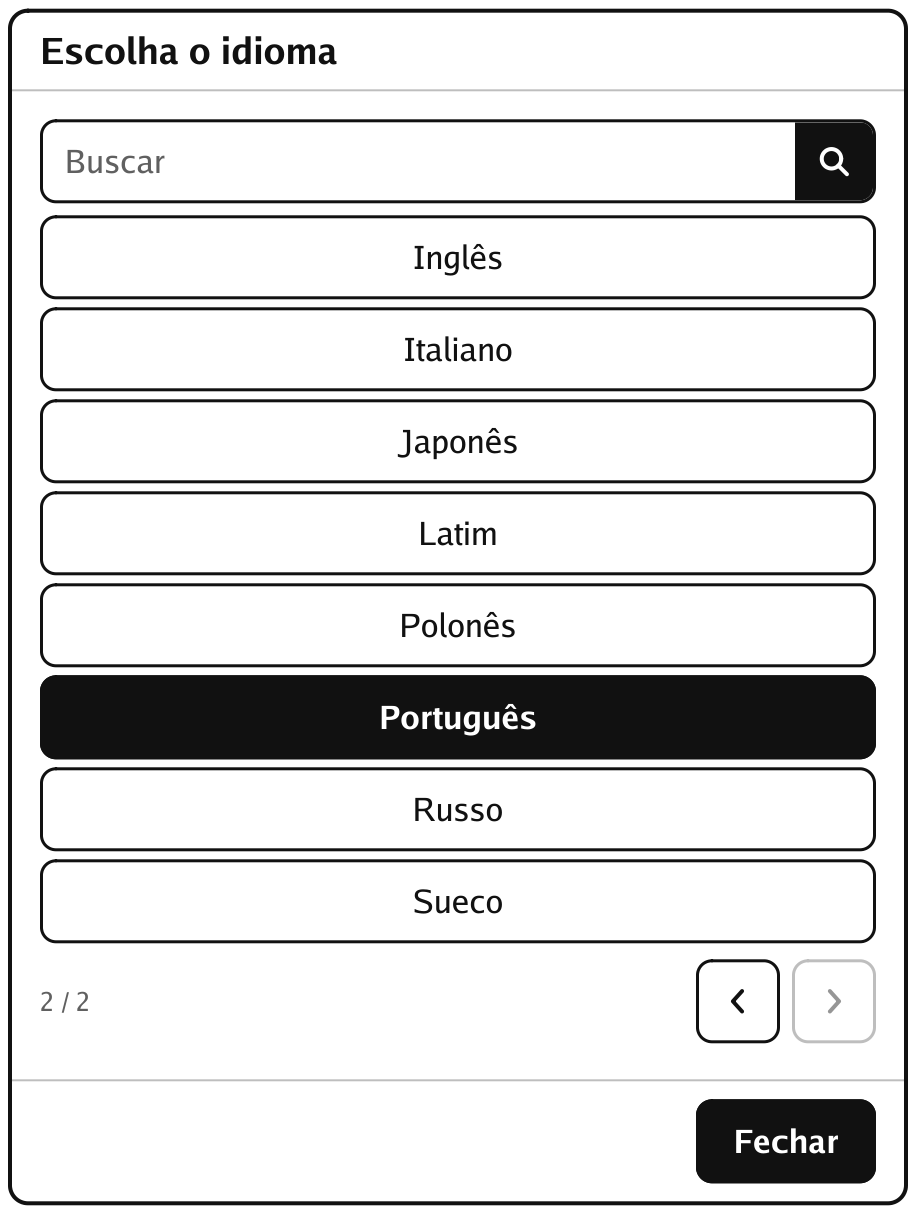
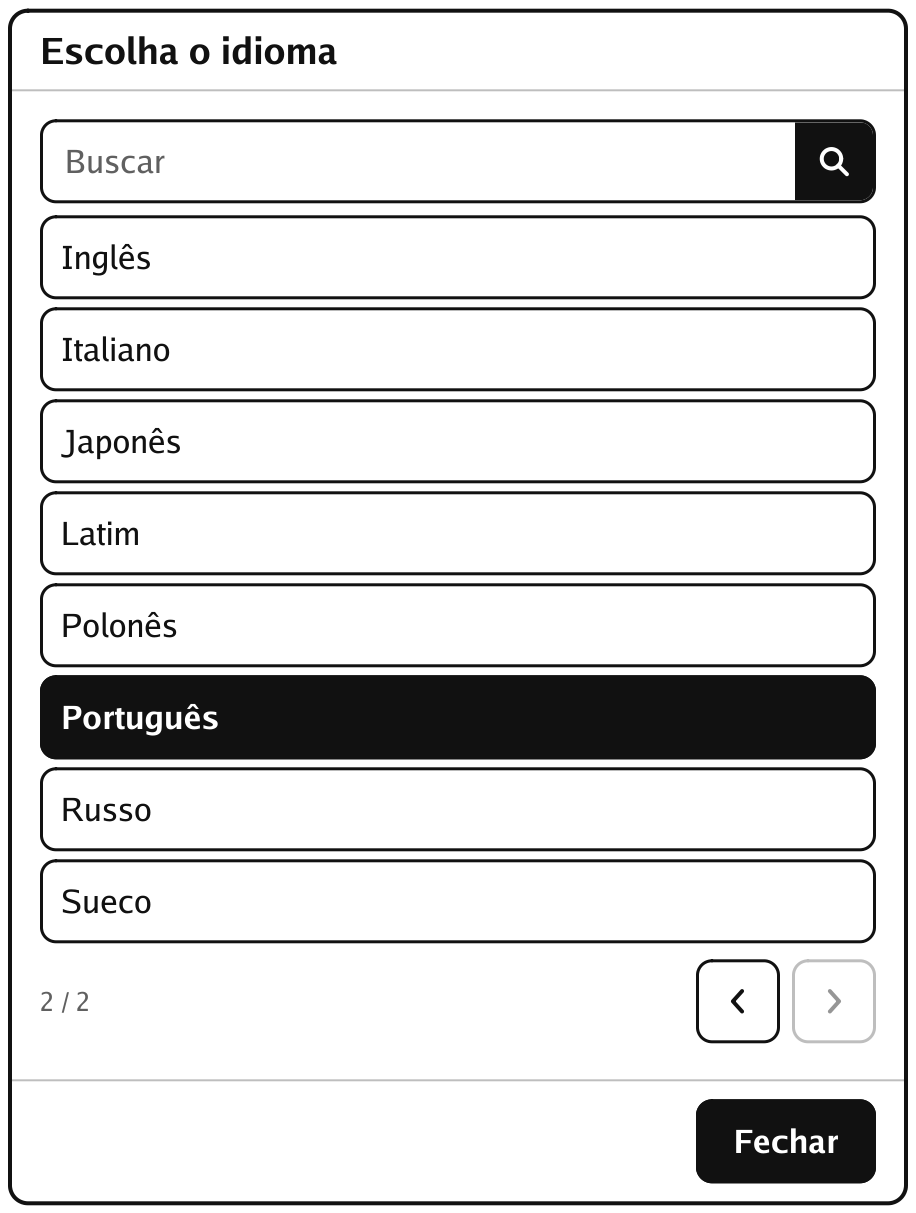
Toolkit: Button honors Style.TextAlign (center by default, AlignStart/AlignEnd place the label); build 1.49.3

diff --git a/internal/toolkit/widget/controls_test.go b/internal/toolkit/widget/controls_test.go
@@ -4,6 +4,8 @@ import (
 	"bytes"
 	"testing"
 	"time"
+
+	"go-pocketbook-base/internal/toolkit/gfx"
 )
 
 func TestCheckboxAndSwitchToggle(t *testing.T) {
@@ -332,5 +334,40 @@ func TestSlideButtonSnapsToLeftCenterRight(t *testing.T) {
 	s.SetValue(50)
 	if s.fraction() != 0.5 {
 		t.Errorf("center fraction = %v", s.fraction())
+	}
+}
+
+func TestAButtonLabelIsCenteredUnlessTextAlignSaysOtherwise(t *testing.T) {
+	ink := func(align gfx.TextAlign) (left, right float64) {
+		b := NewButton("Hi")
+		b.Style.TextAlign = align
+		b.Style.Width = Px(600)
+		d := testDoc(b)
+		img := d.Render()
+		first, last := -1, -1
+		r := b.Bounds
+		for x := int(r.X) + 8; x < int(r.Right())-8; x++ {
+			for y := int(r.Y) + 20; y < int(r.Bottom())-20; y++ {
+				if img.GrayAt(x, y).Y < 128 {
+					if first < 0 {
+						first = x
+					}
+					last = x
+				}
+			}
+		}
+		return float64(first) - r.X, r.Right() - float64(last)
+	}
+	l, r := ink(gfx.AlignCenter)
+	if d := l - r; d > 30 || d < -30 {
+		t.Errorf("centered: %.0f from the left, %.0f from the right", l, r)
+	}
+	l, r = ink(gfx.AlignStart)
+	if l > 40 || r < 400 {
+		t.Errorf("start: %.0f from the left, %.0f from the right", l, r)
+	}
+	l, r = ink(gfx.AlignEnd)
+	if r > 40 || l < 400 {
+		t.Errorf("end: %.0f from the left, %.0f from the right", l, r)
 	}
 }

diff --git a/internal/toolkit/widget/button.go b/internal/toolkit/widget/button.go
@@ -30,6 +30,7 @@ func NewButton(text string) *Button {
 	b.Style.MinHeight = ControlHeight
 	b.Style.Padding = geom.XY(0, 32)
 	b.Style.Bold = true
+	b.Style.TextAlign = gfx.AlignCenter // Style.TextAlign places the label: AlignStart for the rows of a list
 	b.SetVariant(VariantSecondary)
 	return b
 }
@@ -78,7 +79,8 @@ func (b *Button) Measure(float64) geom.Size {
 	return geom.Size{W: w, H: lineHeight(ts.Size)}
 }
 
-// Paint implements Widget: icon and label centered in the content box.
+// Paint implements Widget: icon and label in the content box, centered unless Style.TextAlign says
+// AlignStart (left) or AlignEnd (right).
 func (b *Button) Paint(c *gfx.Canvas) {
 	r := b.ContentRect()
 	ts := b.Style.text(FontBody)
@@ -88,6 +90,12 @@ func (b *Button) Paint(c *gfx.Canvas) {
 	}
 	total := b.Measure(r.W).W
 	x := r.X + (r.W-total)/2
+	switch b.Style.TextAlign {
+	case gfx.AlignStart:
+		x = r.X
+	case gfx.AlignEnd:
+		x = r.X + r.W - total
+	}
 	if b.Icon != gfx.IconNone {
 		c.Icon(b.Icon, geom.R(x, r.Y+(r.H-iconSize)/2, iconSize, iconSize), iconStroke, ts.Color)
 		x += iconSize + iconGap

diff --git a/docs/pt-br/06-componentes.md b/docs/pt-br/06-componentes.md
@@ -52,7 +52,7 @@ Um botão que se toca. Três pesos visuais: **primário** (preenchido), **secund
 | | |
 |---|---|
 | Criar | `widget.NewButton(texto)`, `widget.NewIconButton(ícone)` |
-| Propriedades | `Text`, `Icon` (`gfx.IconSearch`, `IconPlus`, `IconClose`, `IconCheck`, `IconMenu`, `IconCalendar`, setas…), `SetVariant(VariantPrimary / VariantSecondary / VariantGhost)`, `Disabled` |
+| Propriedades | `Text`, `Icon` (`gfx.IconSearch`, `IconPlus`, `IconClose`, `IconCheck`, `IconMenu`, `IconCalendar`, setas…), `SetVariant(VariantPrimary / VariantSecondary / VariantGhost)`, `Disabled`, `Style.TextAlign` (`gfx.AlignCenter` por padrão; `AlignStart` põe o rótulo à esquerda, como nas linhas de uma lista, e `AlignEnd` à direita) |
 | Eventos | `OnClick` |
 | Toque | o toque executa o `OnClick` |
 

diff --git a/docs/en/06-components.md b/docs/en/06-components.md
@@ -52,7 +52,7 @@ A tappable button. Three visual weights: **primary** (filled), **secondary** (ou
 | | |
 |---|---|
 | Create | `widget.NewButton(text)`, `widget.NewIconButton(icon)` |
-| Properties | `Text`, `Icon` (`gfx.IconSearch`, `IconPlus`, `IconClose`, `IconCheck`, `IconMenu`, `IconCalendar`, chevrons…), `SetVariant(VariantPrimary / VariantSecondary / VariantGhost)`, `Disabled` |
+| Properties | `Text`, `Icon` (`gfx.IconSearch`, `IconPlus`, `IconClose`, `IconCheck`, `IconMenu`, `IconCalendar`, chevrons…), `SetVariant(VariantPrimary / VariantSecondary / VariantGhost)`, `Disabled`, `Style.TextAlign` (`gfx.AlignCenter` by default; `AlignStart` puts the label on the left, as in the rows of a list, and `AlignEnd` on the right) |
 | Events | `OnClick` |
 | Touch | a tap runs `OnClick` |
 
